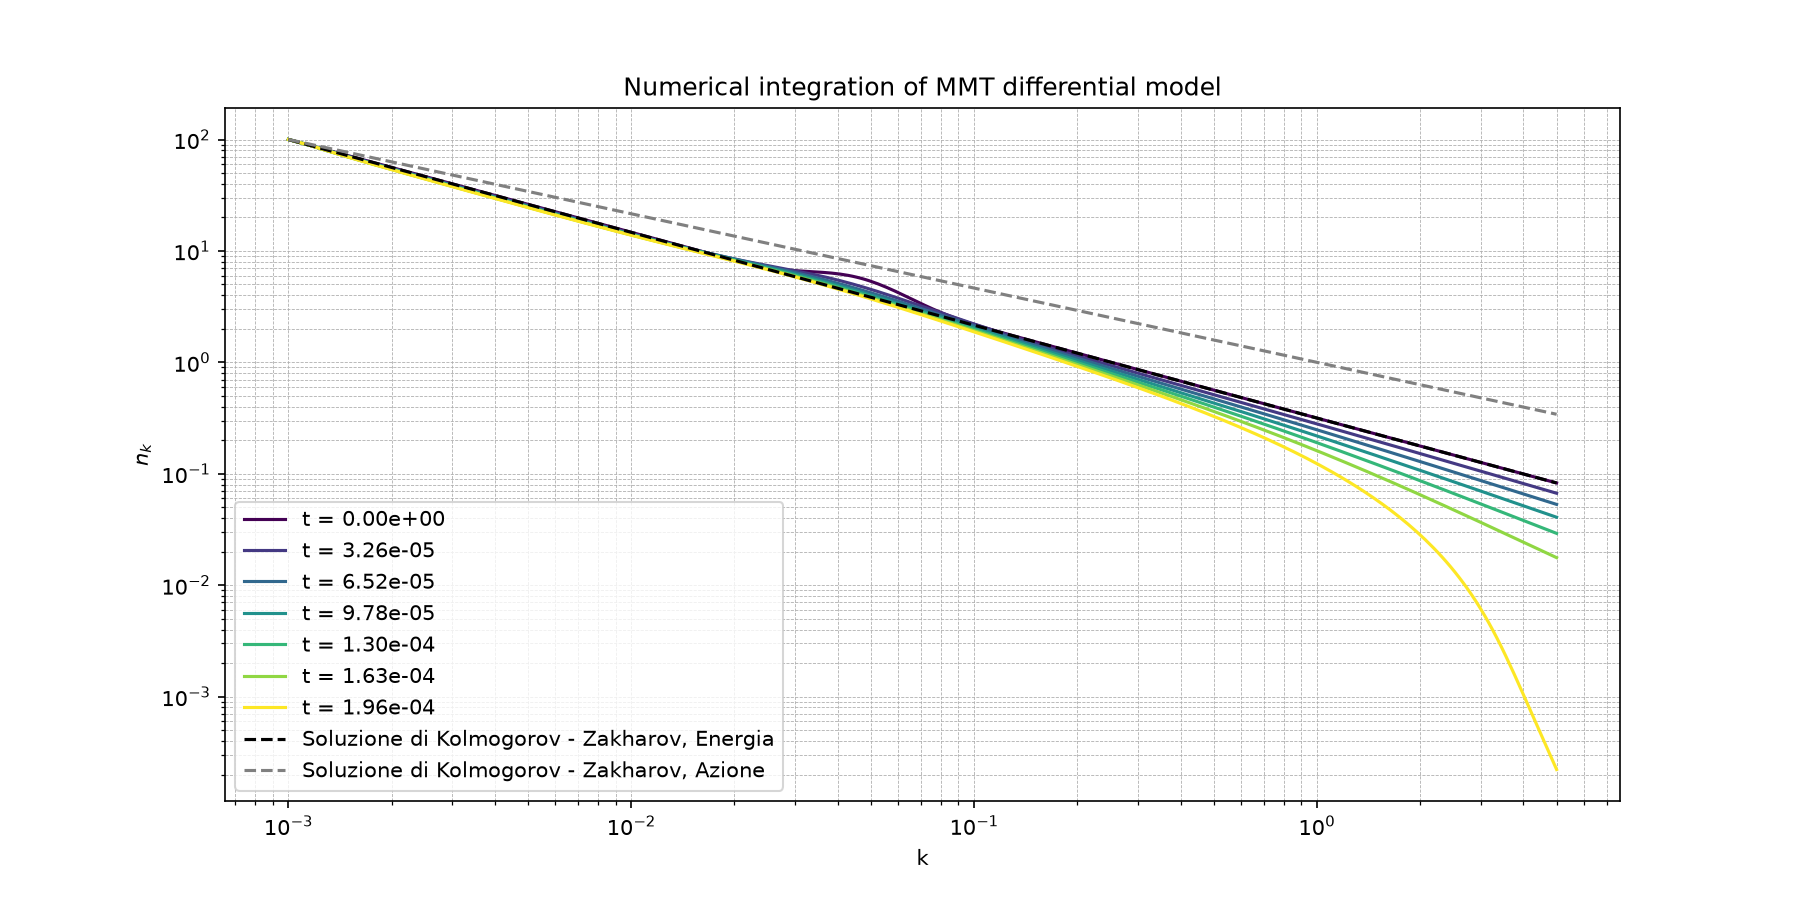
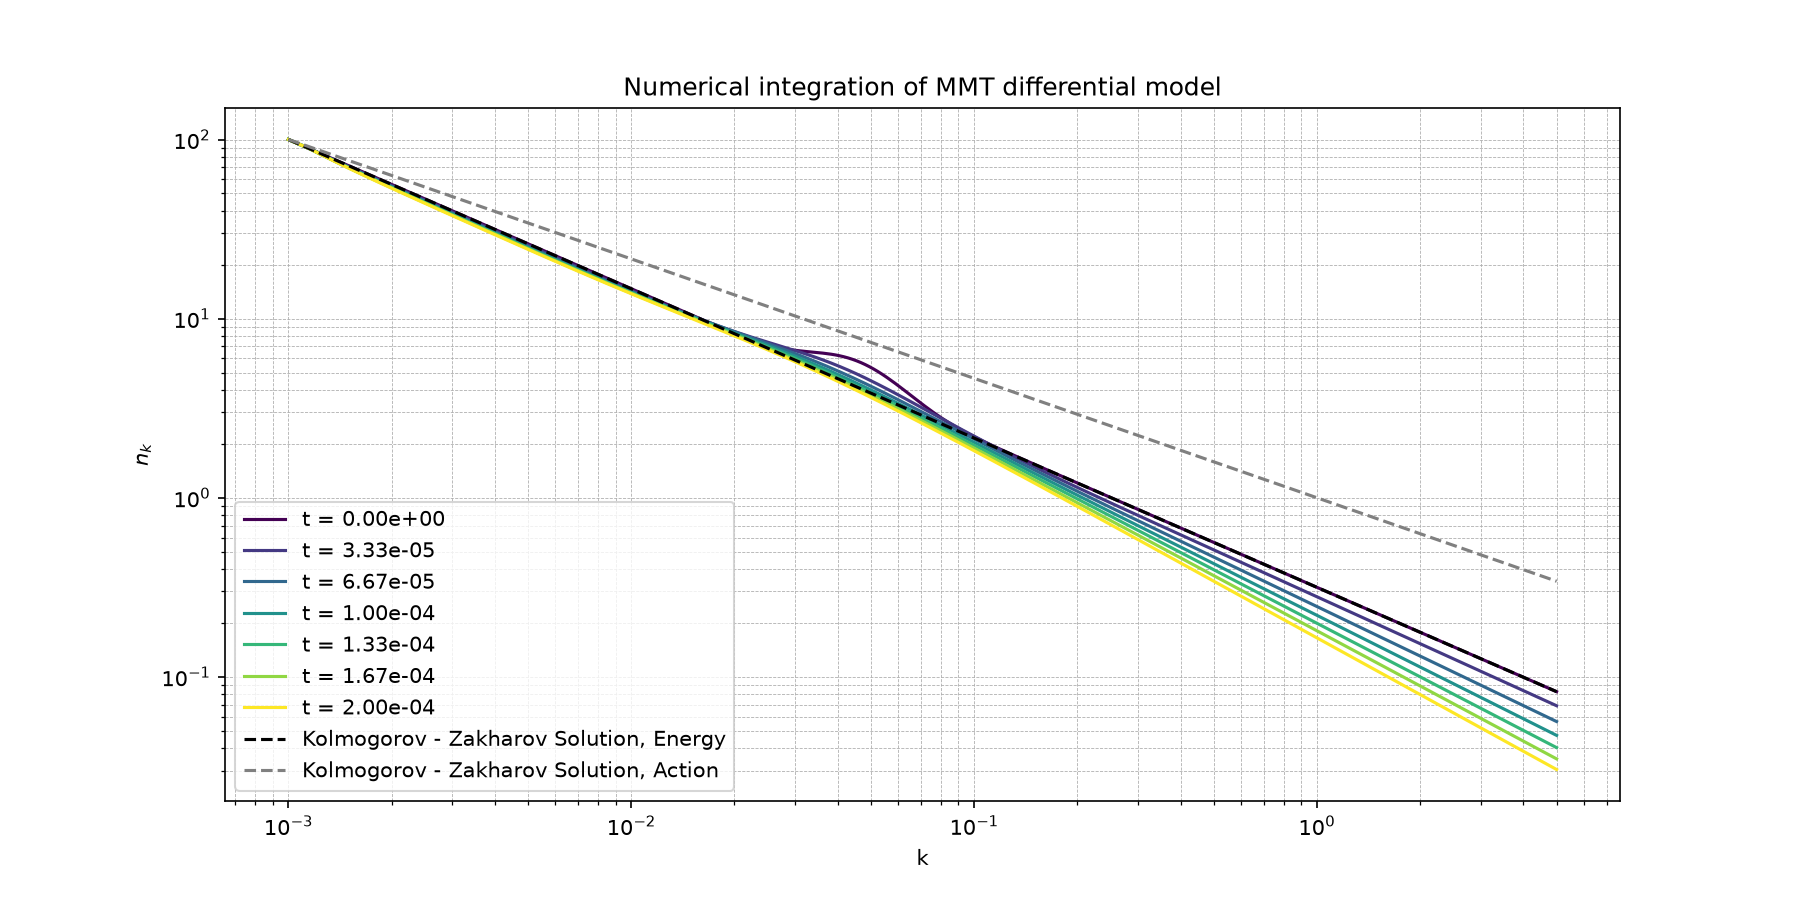
Update plot labels for clarity and adjust boundary condition arguments

diff --git a/DAM.py b/DAM.py
@@ -173,8 +173,8 @@ def plot_results(ts, ns, n_snap, k, save_path = None, show = True):
     for i, j in enumerate(idx):
         t = ts[j]
         ax.plot(k, ns[j], color=colors[i], label=f"t = {ts[j]:.2e}")
-    ax.plot(k, n_kz, color = "black", label = "Soluzione di Kolmogorov - Zakharov, Energia", ls = "--")
-    ax.plot(k, n_kz_a, color = "grey", label = "Soluzione di Kolmogorov - Zakharov, Azione", ls = "--")
+    ax.plot(k, n_kz, color = "black", label = "Kolmogorov - Zakharov Solution, Energy", ls = "--")
+    ax.plot(k, n_kz_a, color = "grey", label = "Kolmogorov - Zakharov Solution, Action", ls = "--")
 
     ax.set_title("Numerical integration of MMT differential model")
     ax.set_xscale("log")

diff --git a/main_DAM.py b/main_DAM.py
@@ -40,7 +40,7 @@ print("\n")
 tsg, nsg = integrate_chunked(
     rhs, n_k_gaus, (0.0, 2e-4), dt_chunk=1e-8,
     apply_bc_func=apply_bc,
-    bc_args=(k, n_left_fix_g, 6, 6, 4),
+    bc_args=(k, n_left_fix_g, 6, 90, 4),
     rhs_args=(k, n_left_fix_g, dlnk, eta1, eta2),
     rtol=1e-5, atol=1e-10
 )
